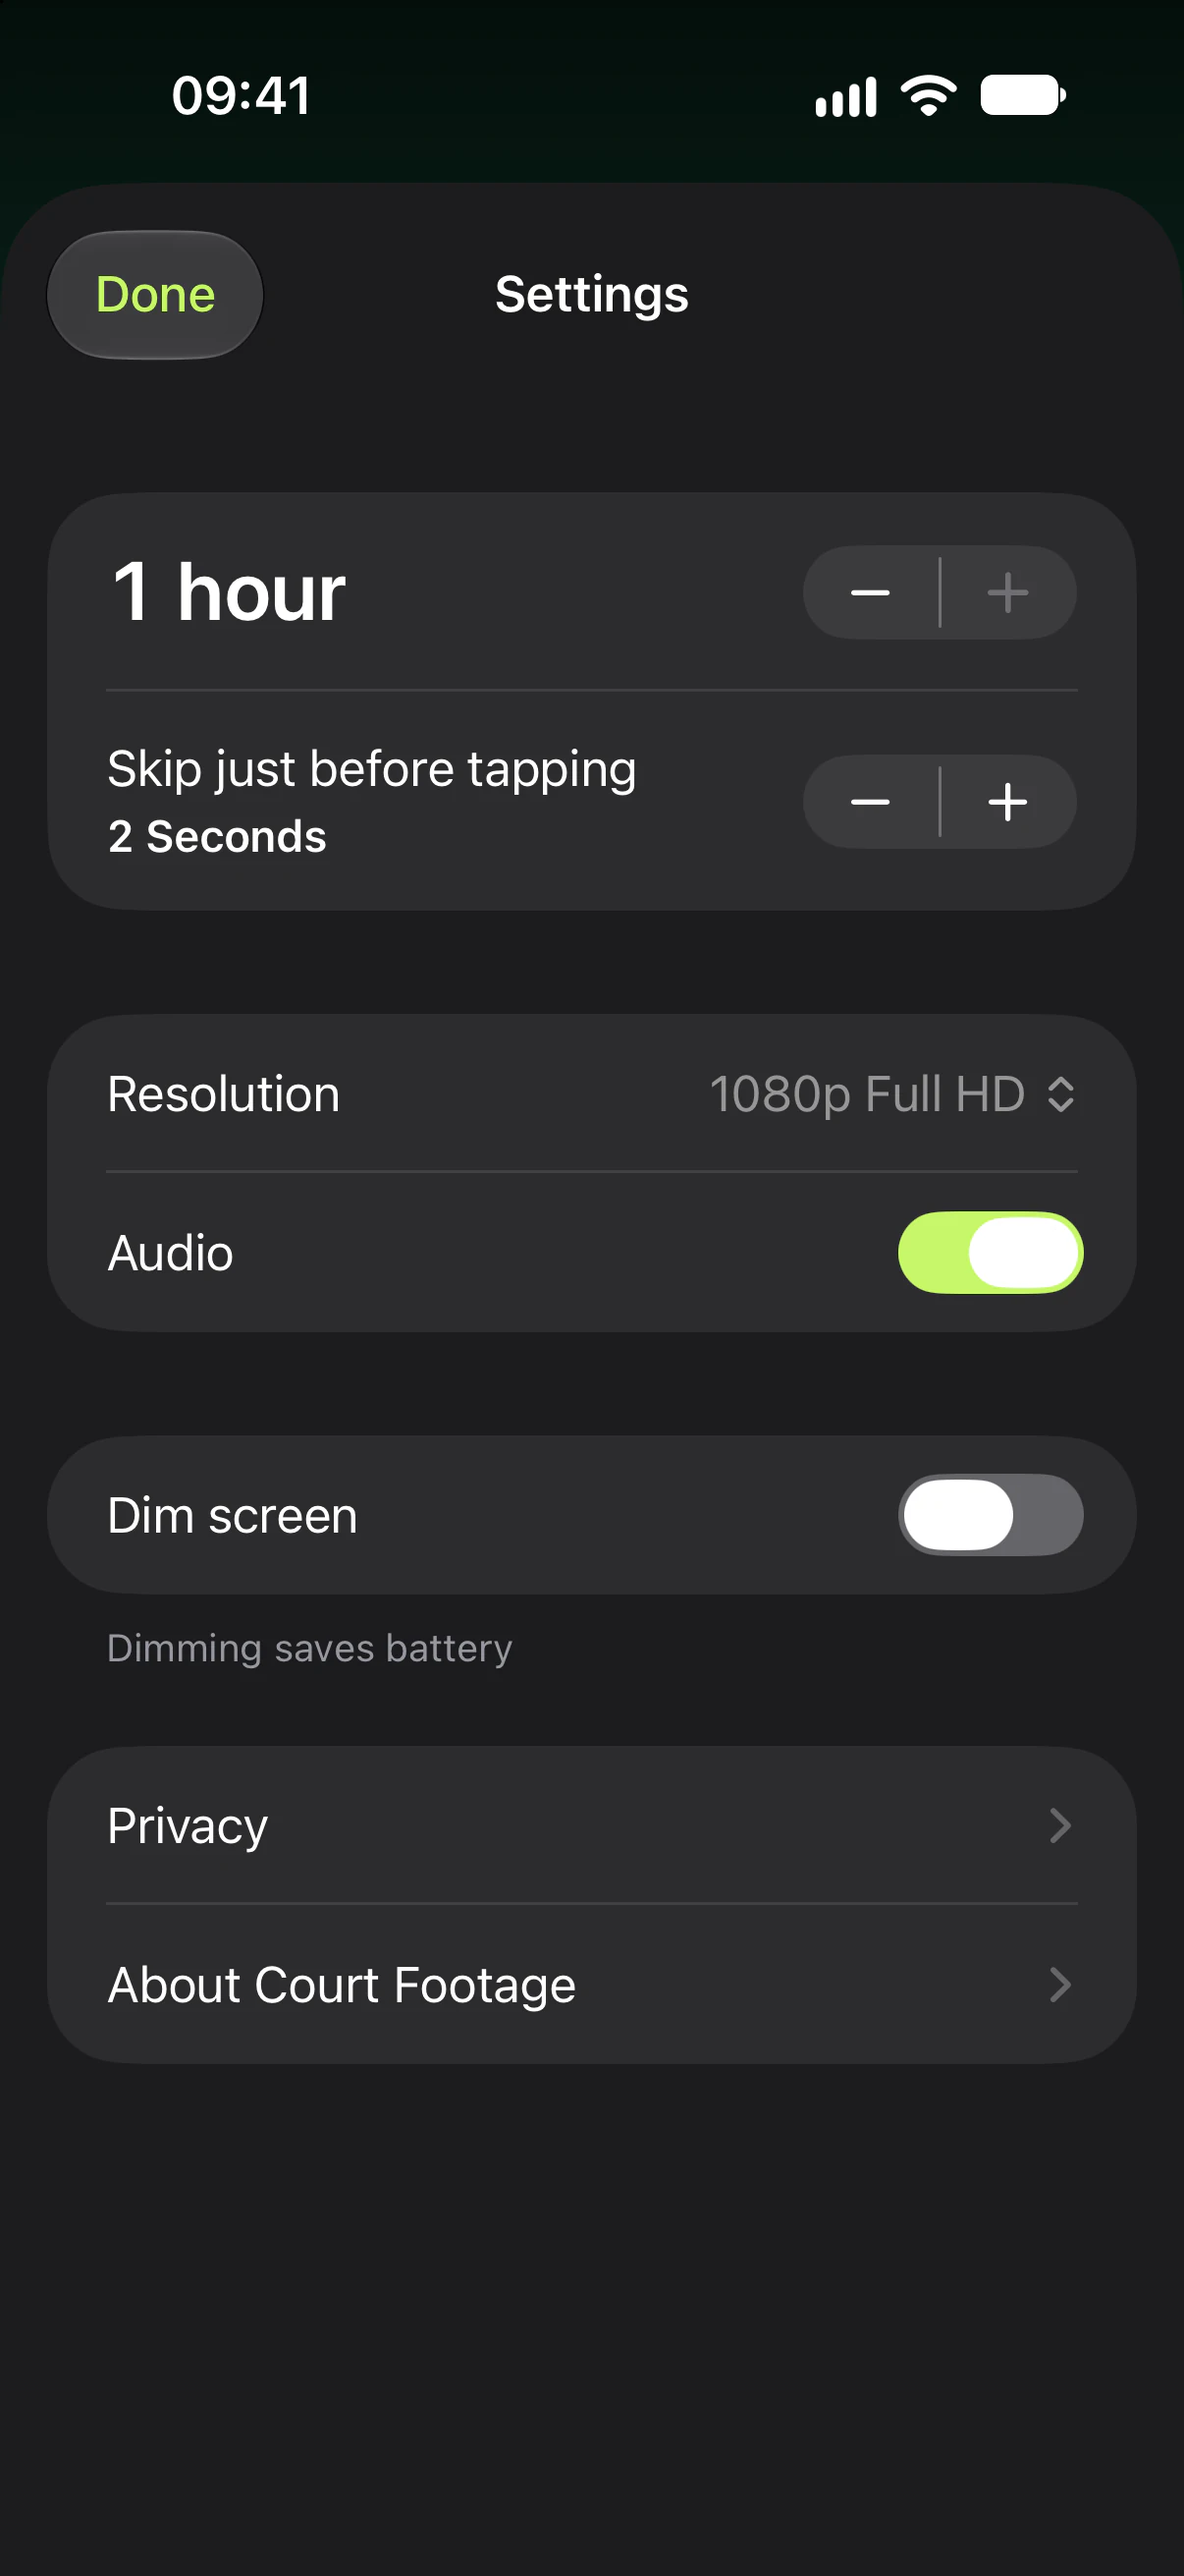
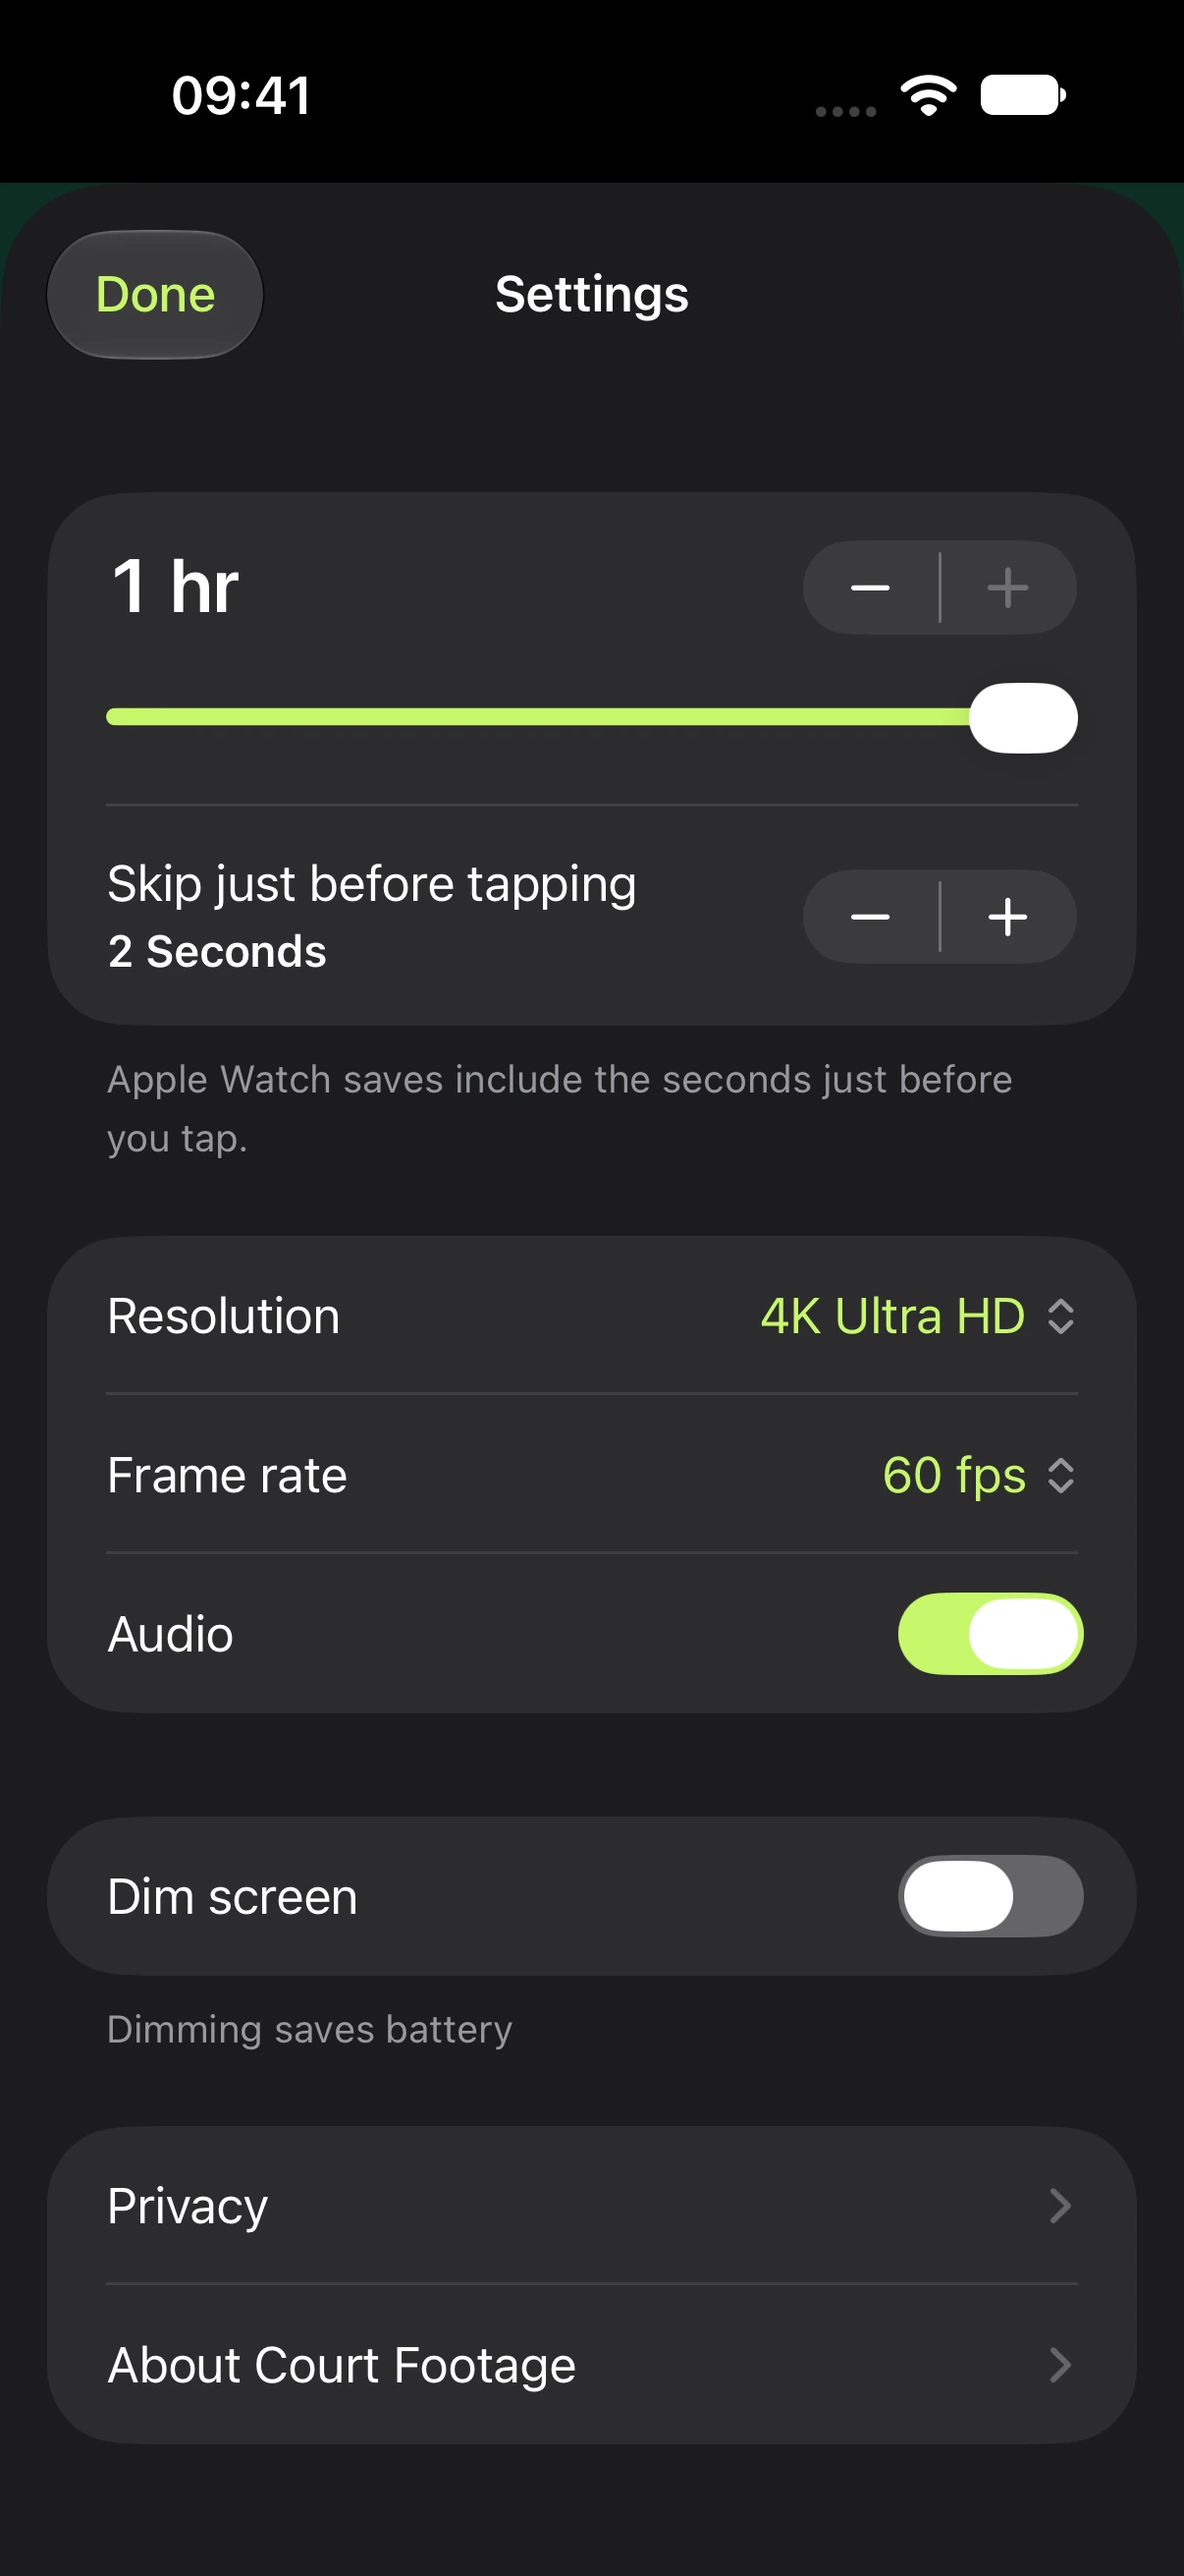
improved web page

diff --git a/Website/index.html b/Website/index.html
@@ -4,17 +4,17 @@
   <meta charset="utf-8">
   <meta name="viewport" content="width=device-width, initial-scale=1">
   <meta name="theme-color" content="#15111f">
-  <title>Court Footage | iPhone Replay for Pickleball, Tennis &amp; Padel</title>
-  <meta name="description" content="Court Footage is an iPhone app for pickleball, tennis, and padel. Tap after a rally to save recent play to Photos and watch an instant replay.">
+  <title>Court Footage | Instant Replay for Court Sports</title>
+  <meta name="description" content="Free iPhone replay app for pickleball, tennis, padel, and other court sports. Tap after a rally to save clips up to one hour to Photos.">
   <link rel="canonical" href="https://courtfootage.com/">
   <meta property="og:type" content="website">
   <meta property="og:site_name" content="Court Footage">
-  <meta property="og:title" content="Court Footage | iPhone Replay for Pickleball, Tennis &amp; Padel">
-  <meta property="og:description" content="Save and replay your own pickleball, tennis, and padel highlights on iPhone. Tap after a rally to save recent play to Photos.">
+  <meta property="og:title" content="Court Footage | Instant Replay for Court Sports">
+  <meta property="og:description" content="Free iPhone replay app for pickleball, tennis, padel, and other court sports. Tap after a rally to save clips up to one hour to Photos.">
   <meta property="og:url" content="https://courtfootage.com/">
   <meta property="og:image" content="https://courtfootage.com/assets/camera.webp?v=2">
   <meta property="og:image:alt" content="Court Footage showing the tap-to-record area on a pickleball court">
-  <link rel="icon" type="image/png" href="/assets/app-icon.png">
+  <link rel="icon" type="image/vnd.microsoft.icon" sizes="16x16 32x32 48x48 96x96" href="/favicon.ico">
   <link rel="apple-touch-icon" href="/assets/app-icon.png">
   <link rel="preload" href="/assets/barlow-condensed-bold.woff2" as="font" type="font/woff2" crossorigin>
   <link rel="preload" href="/assets/replay-court.webp" as="image" fetchpriority="high">
@@ -25,9 +25,9 @@
     "@context": "https://schema.org",
     "@type": "WebSite",
     "name": "Court Footage",
-    "alternateName": "CourtFootage",
+    "alternateName": ["CourtFootage", "courtfootage.com"],
     "url": "https://courtfootage.com/",
-    "description": "The website for Court Footage, an iPhone instant replay app for pickleball, tennis, and padel."
+    "description": "Court Footage is a free iPhone instant replay app for pickleball, tennis, padel, and other court sports."
   }
   </script>
 </head>
@@ -44,7 +44,7 @@
             <a class="app-store-link" href="https://apps.apple.com/app/id6835100251">
               <img src="/assets/download-on-the-app-store.png" alt="Download on the App Store" width="150" height="50">
             </a>
-            <p class="android-status">Android app: not yet implemented</p>
+            <p class="android-status">Android currently not planned</p>
           </div>
         </div>
         <figure class="camera-preview" data-replay-demo>
@@ -178,7 +178,7 @@
       </div>
       <figure class="settings-preview">
         <div class="phone phone-portrait">
-          <img src="/assets/settings-one-hour.webp" alt="Court Footage Settings showing a 1-hour clip length and the Dim screen toggle" width="1206" height="2622" loading="lazy">
+          <img src="/assets/settings-one-hour.webp?v=2" alt="Court Footage Settings showing a one-hour clip length, 4K Ultra HD, and 60 fps" width="1206" height="2622" loading="lazy">
         </div>
       </figure>
     </section>

diff --git a/PickleballReplay/RecordingView.swift b/PickleballReplay/RecordingView.swift
@@ -28,7 +28,7 @@ struct RecordingView: View {
     private let zoomButtonWidth: CGFloat = 44
     private let zoomCapsulePadding: CGFloat = 3
     private let cameraToolbarHeight: CGFloat = 50
-    private let cameraToolbarBottomInset: CGFloat = 46
+    private let cameraToolbarBottomInset: CGFloat = 40
 
     private var deviceRotation: Angle {
         switch model.deviceOrientation {
@@ -99,10 +99,12 @@ struct RecordingView: View {
         .onReceive(NotificationCenter.default.publisher(for: UIScene.didActivateNotification)) { _ in
             startOnActivePreview()
         }
+        .onReceive(NotificationCenter.default.publisher(for: UIScene.didEnterBackgroundNotification)) { notification in
+            guard let scene = notification.object as? UIWindowScene else { return }
+            enterBackground(in: scene)
+        }
         .onReceive(NotificationCenter.default.publisher(for: UIApplication.didEnterBackgroundNotification)) { _ in
-            model.didEnterBackground()
-            showingSettings = false
-            saveRegionFlash = nil
+            enterBackground()
         }
         .onReceive(NotificationCenter.default.publisher(for: UIScene.willDeactivateNotification)) { notification in
             guard let scene = preview.view?.window?.windowScene, notification.object as? UIScene === scene else { return }
@@ -145,8 +147,15 @@ struct RecordingView: View {
 
     private func startOnActivePreview() {
         preview.refreshVideoAspect()
-        guard preview.view?.window?.windowScene?.activationState == .foregroundActive else { return }
-        model.startWhenActive()
+        guard let scene = preview.view?.window?.windowScene else { return }
+        model.startWhenActive(in: scene)
+    }
+
+    private func enterBackground(in scene: UIWindowScene? = nil) {
+        guard model.didEnterBackground(in: scene) else { return }
+        screenDimmer.restore()
+        showingSettings = false
+        saveRegionFlash = nil
     }
 
     private func dimScreenAfterInactivity(timerID: Int?) async {
@@ -457,14 +466,15 @@ struct RecordingView: View {
         let rightToLeft = layoutDirection == .rightToLeft
         let leftInset = rightToLeft ? insets.trailing : insets.leading
         let rightInset = rightToLeft ? insets.leading : insets.trailing
+        let toolbarSpace = cameraToolbarBottomInset + cameraToolbarHeight
         guard landscape else {
-            guard let aspect else { return screen }
-            let fitted = AVMakeRect(aspectRatio: aspect, insideRect: screen)
-            return fitted.offsetBy(dx: 0, dy: min(0, insets.top - fitted.minY))
+            let top = aspect.map { min(insets.top, AVMakeRect(aspectRatio: $0, insideRect: screen).minY) } ?? 0
+            let area = CGRect(x: 0, y: top, width: size.width, height: max(0, size.height - top - toolbarSpace - 2))
+            let fitted = aspect.map { AVMakeRect(aspectRatio: $0, insideRect: area) } ?? area
+            return fitted.offsetBy(dx: 0, dy: area.minY - fitted.minY)
         }
 
-        let toolbarSpace = cameraToolbarBottomInset + cameraToolbarHeight + 6
-        let right = max(rightInset, toolbarSpace)
+        let right = max(rightInset, toolbarSpace + 6)
         let area = CGRect(x: leftInset, y: 0, width: max(0, size.width - leftInset - right), height: size.height)
         let fitted = aspect.map { AVMakeRect(aspectRatio: $0, insideRect: area) } ?? area
         return CGRect(x: area.minX, y: fitted.minY, width: fitted.width, height: fitted.height)

diff --git a/PickleballReplay/RecordingModel.swift b/PickleballReplay/RecordingModel.swift
@@ -105,6 +105,7 @@ final class RecordingModel {
     @ObservationIgnored private var pendingTaps: [Tap] = []
     @ObservationIgnored private var queuedReplays: [QueuedReplay] = []
     @ObservationIgnored private var retainedExportMemoryBytes = 0
+    @ObservationIgnored private weak var recordingScene: UIWindowScene?
     @ObservationIgnored private var isInForeground = false
     @ObservationIgnored private var foregroundGeneration = 0
     @ObservationIgnored private var cameraFacing: CameraFacing = .back
@@ -144,7 +145,9 @@ final class RecordingModel {
         watch.activate()
     }
 
-    func startWhenActive() {
+    func startWhenActive(in scene: UIWindowScene) {
+        guard scene.activationState == .foregroundActive else { return }
+        recordingScene = scene
         microphoneAuthorization = AVCaptureDevice.authorizationStatus(for: .audio)
         let enteredForeground = !isInForeground
         isInForeground = true
@@ -160,6 +163,10 @@ final class RecordingModel {
     private func start(facing: CameraFacing) {
         guard isInForeground,
               phase == .idle || phase == .interrupted else { return }
+        guard recordingScene?.activationState == .foregroundActive else {
+            phase = .interrupted
+            return
+        }
         let requested = requestedRecordingSettings
         activeSettings = requested
         phase = .starting
@@ -175,9 +182,14 @@ final class RecordingModel {
             do {
                 if !demoMode {
                     try await authorizeCapture(audioEnabled: requested.audioEnabled)
-                    try Task.checkCancellation()
-                    guard isInForeground else { return }
+                }
+                try Task.checkCancellation()
+                guard recordingScene?.activationState == .foregroundActive else {
+                    phase = .interrupted
+                    return
+                }
 
+                if !demoMode {
                     microphoneAuthorization = AVCaptureDevice.authorizationStatus(for: .audio)
                     var sessionSettings = requested
                     sessionSettings.audioEnabled = requested.audioEnabled && microphoneAuthorization == .authorized
@@ -250,7 +262,9 @@ final class RecordingModel {
         )
     }
 
-    func didEnterBackground() {
+    func didEnterBackground(in scene: UIWindowScene?) -> Bool {
+        guard isInForeground, scene == nil || scene === recordingScene else { return false }
+        recordingScene = nil
         isInForeground = false
         foregroundGeneration &+= 1
         cancelReplaySaves()
@@ -263,6 +277,7 @@ final class RecordingModel {
         if phase == .recording || phase == .starting {
             finishCapture(interrupted: true)
         }
+        return true
     }
 
     private func cancelReplaySaves() {
@@ -474,7 +489,6 @@ final class RecordingModel {
             try? await Task.sleep(for: .milliseconds(750))
             guard !Task.isCancelled else { return }
             recoveryTask = nil
-            guard UIApplication.shared.applicationState == .active else { return }
             start(facing: cameraFacing)
         }
     }

diff --git a/PickleballReplay/CaptureService.swift b/PickleballReplay/CaptureService.swift
@@ -2,6 +2,7 @@
 import AVKit
 import UIKit
 import VideoToolbox
+import os
 
 enum CameraFacing: Sendable, Equatable {
     case back, front
@@ -130,17 +131,25 @@ final class CaptureService: NSObject, @unchecked Sendable {
         facing: CameraFacing = .back
     ) async throws {
         try await waitForCameraDirections()
-        try Task.checkCancellation()
-        let device: AVCaptureDevice = try await withCheckedThrowingContinuation { continuation in
-            captureQueue.async {
-                do {
-                    continuation.resume(returning: try self.startCapture(settings: settings, facing: facing))
-                } catch {
-                    self.stopCapture()
-                    continuation.resume(throwing: error)
+        let cancelled = OSAllocatedUnfairLock(initialState: false)
+        let device: AVCaptureDevice = try await withTaskCancellationHandler {
+            try Task.checkCancellation()
+            return try await withCheckedThrowingContinuation { continuation in
+                captureQueue.async {
+                    do {
+                        continuation.resume(returning: try self.startCapture(
+                            settings: settings, facing: facing, cancelled: cancelled
+                        ))
+                    } catch {
+                        self.stopCapture()
+                        continuation.resume(throwing: error)
+                    }
                 }
             }
+        } onCancel: {
+            cancelled.withLock { $0 = true }
         }
+        try Task.checkCancellation()
         previewCamera = device
         configurePreviewRotation()
     }
@@ -331,7 +340,10 @@ final class CaptureService: NSObject, @unchecked Sendable {
         return discovery.devices
     }
 
-    private func startCapture(settings: RecordingSettings, facing: CameraFacing) throws -> AVCaptureDevice {
+    private func startCapture(
+        settings: RecordingSettings, facing: CameraFacing, cancelled: OSAllocatedUnfairLock<Bool>
+    ) throws -> AVCaptureDevice {
+        guard !cancelled.withLock({ $0 }) else { throw CancellationError() }
         if running, let camera { return camera }
         if Self.requiresCameraDirections, cameraDirections == nil {
             throw CaptureError.cameraDirectionsUnavailable
@@ -364,7 +376,10 @@ final class CaptureService: NSObject, @unchecked Sendable {
         installObservers(for: generation, camera: selectedCamera, audioEnabled: settings.audioEnabled)
         onConfigured(settings, settings.quality.videoBitrate(frameRate: 1 / nominalFrameDuration.seconds))
 
+        // The scene may have gone to the background while the capture queue was configuring the session.
+        guard !cancelled.withLock({ $0 }) else { throw CancellationError() }
         session.startRunning()
+        guard !cancelled.withLock({ $0 }) else { throw CancellationError() }
         guard session.isRunning, let clock = session.synchronizationClock else {
             throw CaptureError.couldNotStart
         }

diff --git a/Website/privacy.html b/Website/privacy.html
@@ -4,14 +4,14 @@
   <meta charset="utf-8">
   <meta name="viewport" content="width=device-width, initial-scale=1">
   <title>Privacy Policy | Court Footage</title>
-  <meta name="description" content="How the Court Footage iPhone app uses the camera, microphone, and Photos, and how it handles your recordings.">
+  <meta name="description" content="The Court Footage app does not connect to the internet, upload your data or footage, or track you. Recordings are processed on your iPhone.">
   <link rel="canonical" href="https://courtfootage.com/privacy">
   <meta property="og:type" content="website">
   <meta property="og:site_name" content="Court Footage">
   <meta property="og:title" content="Privacy Policy | Court Footage">
-  <meta property="og:description" content="The Court Footage app does not connect to the internet, upload any information, or track you.">
+  <meta property="og:description" content="The Court Footage app does not connect to the internet, upload your data or footage, or track you. Recordings are processed on your iPhone.">
   <meta property="og:url" content="https://courtfootage.com/privacy">
-  <link rel="icon" type="image/png" href="/assets/app-icon.png">
+  <link rel="icon" type="image/vnd.microsoft.icon" sizes="16x16 32x32 48x48 96x96" href="/favicon.ico">
   <link rel="stylesheet" href="/styles.css">
 </head>
 <body>

diff --git a/Website/404.html b/Website/404.html
@@ -5,7 +5,7 @@
   <meta name="viewport" content="width=device-width, initial-scale=1">
   <meta name="theme-color" content="#15111f">
   <title>Page not found | Court Footage</title>
-  <link rel="icon" type="image/png" href="/assets/app-icon.png">
+  <link rel="icon" type="image/vnd.microsoft.icon" sizes="16x16 32x32 48x48 96x96" href="/favicon.ico">
   <link rel="stylesheet" href="/styles.css">
 </head>
 <body>
